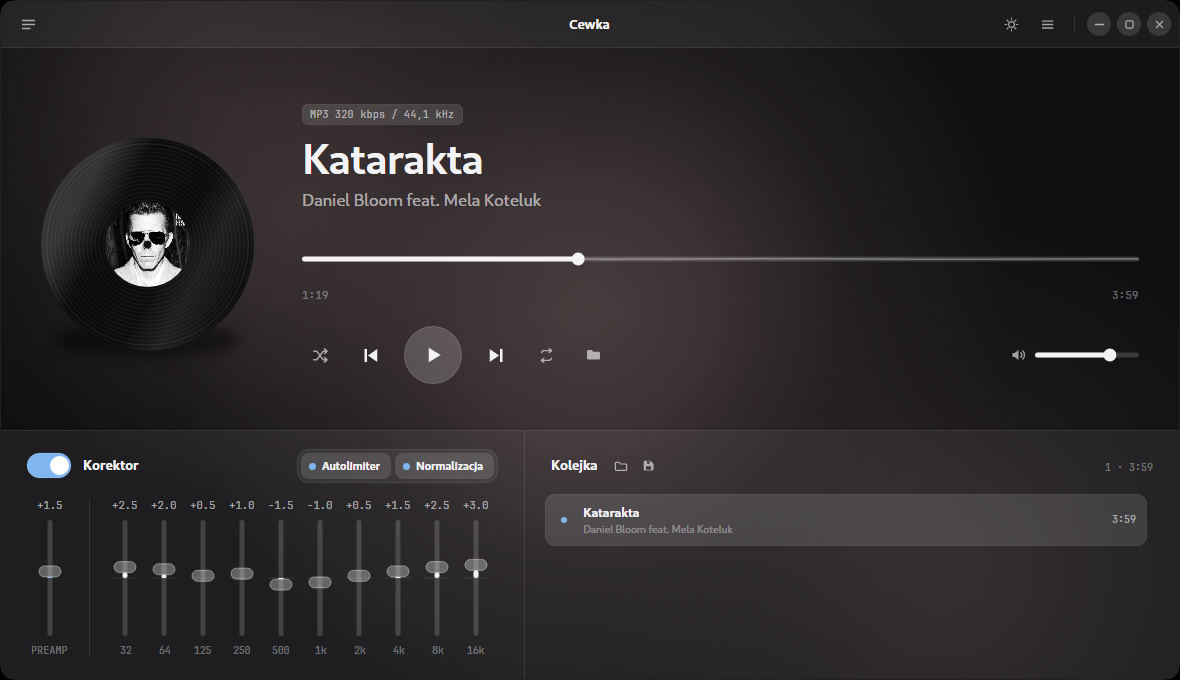
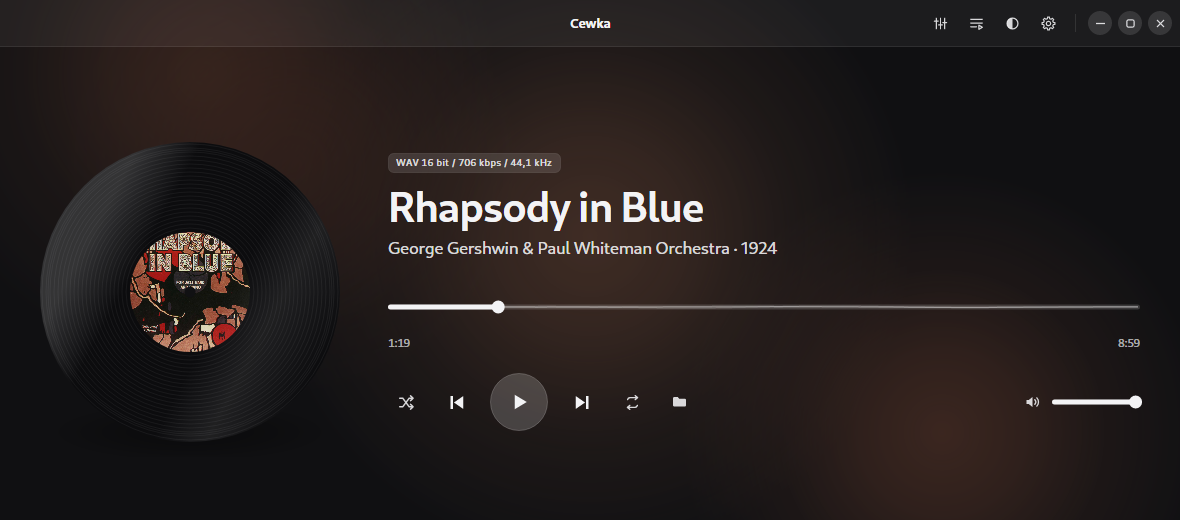
README krótsze, z nowymi zrzutami: dwa okna minimalistyczne, jedno pełne i ustawienia
Opisuje stan programu w wersji 0.9.0. Zrzuty pokazują nagranie z 1924 roku z okładką
w domenie publicznej zamiast współczesnej płyty.

diff --git a/README.md b/README.md
@@ -1,131 +1,108 @@
 # Cewka
 
-Minimalistyczny odtwarzacz muzyki dla Linuksa i Windowsa. Jeden plik, bez instalatora,
-bez środowiska .NET.
+Minimalistyczny odtwarzacz muzyki dla Linuksa i Windowsa. Jeden plik, bez instalatora i bez
+osobnego środowiska .NET.
 
 ![Licencja](https://img.shields.io/badge/licencja-MIT-blue)
 ![Platformy](https://img.shields.io/badge/platformy-Linux%20%7C%20Windows-lightgrey)
-![Wersja](https://img.shields.io/badge/wersja-0.8.1-brightgreen)
+![Wersja](https://img.shields.io/badge/wersja-0.9.0-brightgreen)
 
 *[English version](README.en.md)*
 
-![Cewka — motyw ciemny](docs/obrazy/cewka-ciemny.png)
-
-![Cewka — motyw jasny](docs/obrazy/cewka-jasny.png)
+![Cewka w motywie ciemnym](docs/obrazy/cewka-ciemny.png)
 
 ## Dlaczego to napisałem
 
 Brakowało mi konfigurowalnego i ładnego odtwarzacza na moją Fedorę, więc zrobiłem go sam.
-Chciałem czegoś, co po prostu gra pliki z dysku, ma korektor i wygląda dobrze — bez biblioteki,
-bez konta, bez integracji z serwisami.
+Chciałem czegoś, co po prostu gra pliki z dysku, ma korektor i dobrze wygląda, a do tego obywa się
+bez biblioteki, konta i integracji z serwisami.
 
-Kod pisałem przy wsparciu Claude Code, które pisało automatyczne testy i wyszukiwało błędy.
+Otwiera się w nim pliki albo całe foldery, a on układa je w kolejkę i gra. Tło okna bierze barwy
+z okładki albumu.
 
-## Co potrafi Cewka
+![Cewka w motywie jasnym](docs/obrazy/cewka-jasny.png)
 
-- **Formaty**: MP3, FLAC, WAV, Ogg Vorbis, Opus, a przez kodeki systemowe także AAC, M4A i ALAC
-- **Odtwarzanie bezprzerwowe** i przewijanie bez trzasków
-- **Korektor dziesięciopasmowy** z przedwzmacniaczem i miękkim limiterem na wyjściu
-- **Pięć efektów**: crossfeed dla słuchawek, kompensacja głośności przy cichym słuchaniu, bas
-  wirtualny, ograniczanie dynamiki i poszerzenie bazy stereo. Każdy ma suwak siły od 0 do 10
-  i każdy jest domyślnie wyłączony
-- **Korektor i kolejkę pokazuje się niezależnie** — klawiszem `Q` i klawiszem `L`, albo
-  przyciskami w pasku tytułu. Okno wraca potem do rozmiaru, jaki miało wcześniej
-- **Wyrównanie głośności** według tagów ReplayGain albo własnej analizy EBU R128, z wyborem
-  poziomu docelowego (−23, −18 albo −14 LUFS)
-- **Listy odtwarzania** w formacie M3U — kolejkę można zapisać i wczytać, także w innym programie
-- **Tło z barw okładki**, animowane w rytm muzyki; plamy oddychają niezależnie od siebie,
-  a intensywność barw ma trzy stopnie
-- **Motyw jasny i ciemny**, domyślnie zgodny z systemem
-- **Siedemnaście języków**: polski, angielski, czeski, niemiecki, grecki, hiszpański,
-  francuski, węgierski, indonezyjski, włoski, niderlandzki, portugalski, rumuński, rosyjski,
-  turecki, ukraiński i wietnamski
-- **Integracja z pulpitem**: panel multimediów (MPRIS w Linuksie, nakładka w Windowsie),
-  klawisze multimedialne, jedna instancja z przekazywaniem plików
-- **Sprawdzanie nowszego wydania** — na żądanie albo przy uruchomieniu, domyślnie wyłączone.
-  To jedyne miejsce, w którym program łączy się z siecią: jedno pytanie do GitHuba o numer
-  najnowszego wydania, nie częściej niż raz na dobę
-- **Ustawienia**: urządzenie wyjściowe, rozmiar bufora, jakość konwersji częstotliwości,
-  krok przewijania, przywracanie poprzedniej sesji, barwa domyślnej okładki (jedenaście par
-  albo losowanie co utwór), zachowanie przy otwarciu pliku z eksploratora
+## Możliwości
 
-<img src="docs/obrazy/cewka-ustawienia.png" width="640" alt="Ustawienia">
+- MP3, FLAC, WAV, Ogg Vorbis i Opus. AAC, M4A i ALAC przez kodeki systemu: Media Foundation
+  w Windowsie, GStreamer w Linuksie.
+- Przejścia między utworami bez przerwy.
+- Korektor dziesięciopasmowy z przedwzmacniaczem i ogranicznikiem.
+- Pięć efektów, domyślnie wyłączonych: crossfeed do słuchawek, kompensacja głośności przy cichym
+  słuchaniu, bas wirtualny, kompresja dynamiki i poszerzenie stereo.
+- Wyrównanie głośności według znaczników ReplayGain albo własnego pomiaru EBU R128, do poziomu
+  −23, −18 albo −14 LUFS.
+- Listy odtwarzania M3U.
+- Motyw jasny i ciemny, siedemnaście języków interfejsu.
+- Panel multimediów systemu (MPRIS w Linuksie, nakładka w Windowsie) i klawisze multimedialne.
+- Obsługa z klawiatury i przez czytnik ekranu.
+- Sprawdzanie nowej wersji, domyślnie wyłączone. Tylko wtedy Cewka łączy się z siecią: pyta
+  GitHuba o numer najnowszego wydania, najwyżej raz na dobę.
+
+Korektor z efektami i kolejkę pokazuje się przyciskami w prawym górnym rogu okna albo klawiszami
+Q i L. Pozostałe skróty są w ustawieniach, w zakładce O programie.
+
+![Cewka z korektorem, efektami i kolejką](docs/obrazy/cewka-pelny.png)
+
+<img src="docs/obrazy/cewka-ustawienia.png" width="640" alt="Okno ustawień">
 
 ## Instalacja
 
-Pakiety są w [wydaniach](https://github.com/grelix/cewka/releases). Po instalacji program
+Pakiety są na stronie [wydań](https://github.com/grelix/cewka/releases). Po instalacji program
 pojawia się w menu aplikacji.
 
-**Fedora, RHEL, openSUSE**
+Fedora, RHEL, openSUSE:
 
 ```bash
-sudo dnf install ./cewka-0.8.1-1.x86_64.rpm
+sudo dnf install ./cewka-0.9.0-1.x86_64.rpm
 ```
 
-**Debian, Ubuntu, Linux Mint**
+Debian, Ubuntu, Linux Mint:
 
 ```bash
-sudo apt install ./cewka_0.8.1_amd64.deb
+sudo apt install ./cewka_0.9.0_amd64.deb
 ```
 
-**Arch, Manjaro**
+Arch, Manjaro:
 
 ```bash
-sudo pacman -U cewka-0.8.1-1-x86_64.pkg.tar.zst
+sudo pacman -U cewka-0.9.0-1-x86_64.pkg.tar.zst
 ```
 
-**Windows**
-
-Wystarczy pobrać `Cewka.exe` i uruchomić. Instalator nie jest potrzebny.
-
-Plik nie jest podpisany certyfikatem, więc przy pierwszym uruchomieniu Windows pokaże ostrzeżenie
-SmartScreen. Pochodzenie pliku można potwierdzić sumą kontrolną — każde wydanie ma dołączony
-`SHA256SUMS.txt`, a sumę pobranego pliku podaje `Get-FileHash Cewka.exe` w PowerShellu.
+W Windowsie wystarczy pobrać `Cewka.exe` i go uruchomić. Plik nie jest podpisany, więc za pierwszym
+razem pojawi się ostrzeżenie SmartScreen. Pobrany plik można porównać z sumą z `SHA256SUMS.txt`
+dołączonego do wydania, na przykład poleceniem `Get-FileHash Cewka.exe` w PowerShellu.
 
 ### AAC, M4A i ALAC w Linuksie
 
-Te trzy formaty obsługuje GStreamer, a dekoder AAC dostarcza osobny pakiet. Bez niego pozostałe
-formaty działają normalnie.
+Te formaty wymagają dekodera libav dla GStreamera. Bez niego pozostałe formaty działają normalnie.
 
 ```bash
-sudo dnf install gstreamer1-libav        # Fedora (z RPM Fusion)
+sudo dnf install gstreamer1-libav        # Fedora, z RPM Fusion
 sudo apt install gstreamer1.0-libav      # Debian, Ubuntu
 sudo pacman -S gst-libav                 # Arch
 ```
 
-## Budowanie ze źródeł
+## Budowanie
 
-Potrzebny jest .NET SDK 9 oraz kompilator C — `gcc` w Linuksie albo Visual Studio Build Tools
-w Windowsie.
+Potrzebny jest .NET SDK 9 i kompilator C: gcc w Linuksie, Visual Studio Build Tools w Windowsie.
 
 ```bash
 ./native/build-linux.sh
-```
-
-Potem aplikacja:
-
-```bash
 dotnet run --project src/Cewka.App -- ~/Muzyka/Album
 ```
 
-Wydanie jednoplikowe i pakiety instalacyjne:
+Wydanie jednoplikowe i pakiety budują `./tools/publish-linux.sh` i `./tools/build-packages.sh`.
+W Windowsie są to `native\build-windows.cmd` i `tools\publish-windows.cmd`.
 
-```bash
-./tools/publish-linux.sh
-./tools/build-packages.sh
-```
+## Z czego jest zrobiona
 
-W Windowsie odpowiednikami są `native\build-windows.cmd` i `tools\publish-windows.cmd`.
-
-## Jak to jest zrobione
-
-C# i [Avalonia UI](https://avaloniaui.net/), dźwięk przez [miniaudio](https://miniaud.io/)
-z własną nakładką interoperacyjną. Dekodery: miniaudio dla MP3, FLAC i WAV,
-[NVorbis](https://github.com/NVorbis/NVorbis) dla Ogg Vorbis,
-[Concentus](https://github.com/lostromb/concentus) dla Opusa, a dla pozostałych formatów
-Media Foundation w Windowsie i GStreamer w Linuksie.
+C# i [Avalonia](https://avaloniaui.net/). Dźwięk idzie przez [miniaudio](https://miniaud.io/),
+który dekoduje też MP3, FLAC i WAV. Ogg Vorbis obsługuje [NVorbis](https://github.com/NVorbis/NVorbis),
+Opusa [Concentus](https://github.com/lostromb/concentus), a pozostałe formaty kodeki systemu.
 
 ## Licencja
 
-MIT — treść w pliku [LICENSE](LICENSE). Osadzony font Cantarell podlega
-licencji SIL Open Font License 1.1; szczegóły w [docs/licencje.md](docs/licencje.md).
+MIT, treść w pliku [LICENSE](LICENSE). Noty składników są w [THIRD-PARTY-NOTICES.txt](THIRD-PARTY-NOTICES.txt),
+a ich wykaz w [docs/licencje.md](docs/licencje.md). Zrzuty pokazują „Rhapsody in Blue” w nagraniu z 1924 roku
+z okładką pierwszego wydania nut, która jest w domenie publicznej.

diff --git a/README.en.md b/README.en.md
@@ -1,107 +1,109 @@
 # Cewka
 
-A minimalist music player for Linux and Windows. A single file, no installer,
-no .NET runtime required.
+A minimalist music player for Linux and Windows. A single file, no installer and no separate
+.NET runtime.
 
 ![License](https://img.shields.io/badge/license-MIT-blue)
 ![Platforms](https://img.shields.io/badge/platforms-Linux%20%7C%20Windows-lightgrey)
-![Version](https://img.shields.io/badge/version-0.8.1-brightgreen)
+![Version](https://img.shields.io/badge/version-0.9.0-brightgreen)
 
 *[Wersja polska](README.md)*
 
-![Cewka — dark theme](docs/obrazy/cewka-ciemny.png)
-
-![Cewka — light theme](docs/obrazy/cewka-jasny.png)
+![Cewka with the dark theme](docs/obrazy/cewka-ciemny.png)
 
 ## Why I built this
 
 I couldn't find a configurable, good-looking music player for my Fedora setup, so I wrote one
-myself. I wanted something that just plays files from disk, has an equalizer, and looks good —
-no library, no account, no service integrations.
+myself. I wanted something that just plays files from disk, has an equalizer and looks good,
+without a library, an account or service integrations.
 
-I wrote the code with help from Claude Code, which wrote automated tests and hunted for bugs.
+You open files or whole folders, it puts them in a queue and plays them. The window background
+takes its colors from the album cover.
 
-## What Cewka can do
+![Cewka with the light theme](docs/obrazy/cewka-jasny.png)
 
-- **Formats**: MP3, FLAC, WAV, Ogg Vorbis, Opus, and through system codecs also AAC, M4A, and ALAC
-- **Gapless playback** and click-free seeking
-- **Ten-band equalizer** with a preamp and a soft limiter on the output
-- **Five effects**: crossfeed for headphones, loudness compensation for quiet listening, virtual
-  bass, dynamic range limiting and stereo widening. Each has a strength slider from 0 to 10, and
-  each is off by default
-- **The equaliser and the queue show independently** — press `Q` and `L`, or use the buttons in
-  the title bar. The window then goes back to the size it had before
-- **Volume normalization** using ReplayGain tags or its own EBU R128 analysis, with a choice
-  of target level (−23, −18, or −14 LUFS)
-- **M3U playlists** — the queue can be saved and loaded, including in another player
-- **Background from cover art colors**, animated to the beat; the blobs breathe independently
-  of one another, and the colour intensity has three settings
-- **Light and dark theme**, following the system by default
-- **Seventeen languages**: Polish, English, Czech, German, Greek, Spanish, French, Hungarian,
-  Indonesian, Italian, Dutch, Portuguese, Romanian, Russian, Turkish, Ukrainian, and Vietnamese
-- **Desktop integration**: media panel (MPRIS on Linux, an overlay on Windows),
-  media keys, single instance with file handoff
-- **Update check** — on demand or at start-up, off by default. This is the only place the
-  application touches the network: one question to GitHub for the number of the latest
-  release, no more than once a day
-- **Settings**: output device, buffer size, sample rate conversion quality, seek step,
-  restoring the previous session, default cover colours (eleven pairs, or a fresh one for every
-  track), what happens to a file opened from the file manager
+## Features
 
-<img src="docs/obrazy/cewka-ustawienia.png" width="640" alt="Settings">
+- MP3, FLAC, WAV, Ogg Vorbis and Opus. AAC, M4A and ALAC through the system codecs: Media
+  Foundation on Windows, GStreamer on Linux.
+- Gapless playback.
+- Ten-band equalizer with a preamp and a limiter.
+- Five effects, all off by default: headphone crossfeed, loudness compensation for quiet
+  listening, virtual bass, dynamic range compression and stereo widening.
+- Volume leveling from ReplayGain tags or Cewka's own EBU R128 measurement, to −23, −18 or
+  −14 LUFS.
+- M3U playlists.
+- Light and dark themes, seventeen interface languages.
+- System media panel (MPRIS on Linux, the overlay on Windows) and media keys.
+- Keyboard and screen reader support.
+- Update check, off by default. It is the only time Cewka goes online: it asks GitHub for the
+  latest release number, at most once a day.
+
+The equalizer with effects and the queue are shown with the buttons in the top right corner or
+with the Q and L keys. The other shortcuts are listed in Settings, under About.
+
+![Cewka with the equalizer, effects and queue](docs/obrazy/cewka-pelny.png)
+
+<img src="docs/obrazy/cewka-ustawienia.png" width="640" alt="Settings window">
 
 ## Installation
 
-Packages are on the [releases page](https://github.com/grelix/cewka/releases). After installation
-the app shows up in the application menu.
+Packages are on the [releases page](https://github.com/grelix/cewka/releases). After installing,
+Cewka shows up in the application menu.
 
-**Fedora, RHEL, openSUSE**
+Fedora, RHEL, openSUSE:
 
 ```bash
-sudo dnf install ./cewka-0.8.1-1.x86_64.rpm
+sudo dnf install ./cewka-0.9.0-1.x86_64.rpm
 ```
 
-**Debian, Ubuntu, Linux Mint**
+Debian, Ubuntu, Linux Mint:
 
 ```bash
-sudo apt install ./cewka_0.8.1_amd64.deb
+sudo apt install ./cewka_0.9.0_amd64.deb
 ```
 
-**Arch, Manjaro**
+Arch, Manjaro:
 
 ```bash
-sudo pacman -U cewka-0.8.1-1-x86_64.pkg.tar.zst
+sudo pacman -U cewka-0.9.0-1-x86_64.pkg.tar.zst
 ```
 
-**Windows**
+On Windows, download `Cewka.exe` and run it. The file isn't signed, so SmartScreen will warn you
+the first time. You can check the download against `SHA256SUMS.txt` from the release, for
+example with `Get-FileHash Cewka.exe` in PowerShell.
 
-Just download `Cewka.exe` and run it. No installer needed.
+### AAC, M4A and ALAC on Linux
 
-The file is not signed with a certificate, so Windows will show a SmartScreen warning the first
-time it runs. You can confirm where the file came from with its checksum — every release ships
-a `SHA256SUMS.txt`, and `Get-FileHash Cewka.exe` in PowerShell gives you the hash to compare.
-
-### AAC, M4A, and ALAC on Linux
-
-These three formats are handled by GStreamer, and the AAC decoder comes from a separate package.
-Without it the other formats work fine.
+These formats need the libav decoder for GStreamer. Everything else works without it.
 
 ```bash
-sudo dnf install gstreamer1-libav        # Fedora (from RPM Fusion)
+sudo dnf install gstreamer1-libav        # Fedora, from RPM Fusion
 sudo apt install gstreamer1.0-libav      # Debian, Ubuntu
 sudo pacman -S gst-libav                 # Arch
 ```
 
-## How it's built
+## Building
 
-C# and [Avalonia UI](https://avaloniaui.net/), audio through [miniaudio](https://miniaud.io/)
-with a custom interop layer. Decoders: miniaudio for MP3, FLAC, and WAV,
-[NVorbis](https://github.com/NVorbis/NVorbis) for Ogg Vorbis,
-[Concentus](https://github.com/lostromb/concentus) for Opus, and for the remaining formats
-Media Foundation on Windows and GStreamer on Linux.
+You need the .NET 9 SDK and a C compiler: gcc on Linux, Visual Studio Build Tools on Windows.
+
+```bash
+./native/build-linux.sh
+dotnet run --project src/Cewka.App -- ~/Music/Album
+```
+
+`./tools/publish-linux.sh` and `./tools/build-packages.sh` build the single-file release and the
+packages. On Windows use `native\build-windows.cmd` and `tools\publish-windows.cmd`.
+
+## What it's made of
+
+C# and [Avalonia](https://avaloniaui.net/). Audio goes through [miniaudio](https://miniaud.io/),
+which also decodes MP3, FLAC and WAV. Ogg Vorbis is handled by [NVorbis](https://github.com/NVorbis/NVorbis),
+Opus by [Concentus](https://github.com/lostromb/concentus), and everything else by the system codecs.
 
 ## License
 
-MIT — full text in [LICENSE](LICENSE). The embedded Cantarell font is
-licensed under the SIL Open Font License 1.1; details in [docs/licencje.md](docs/licencje.md)
-(in Polish).
+MIT, see [LICENSE](LICENSE). Third-party notices are in [THIRD-PARTY-NOTICES.txt](THIRD-PARTY-NOTICES.txt),
+with a list of components in [docs/licencje.md](docs/licencje.md) (in Polish). The screenshots show
+the 1924 recording of Rhapsody in Blue with the cover of the first sheet music edition, which is in
+the public domain.
